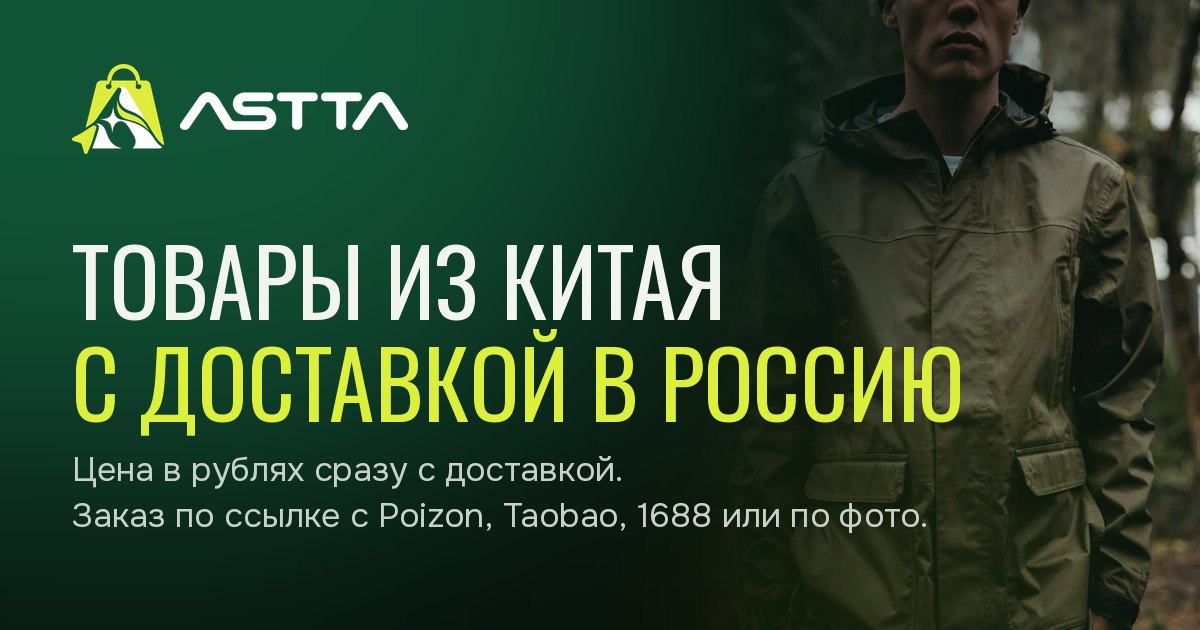
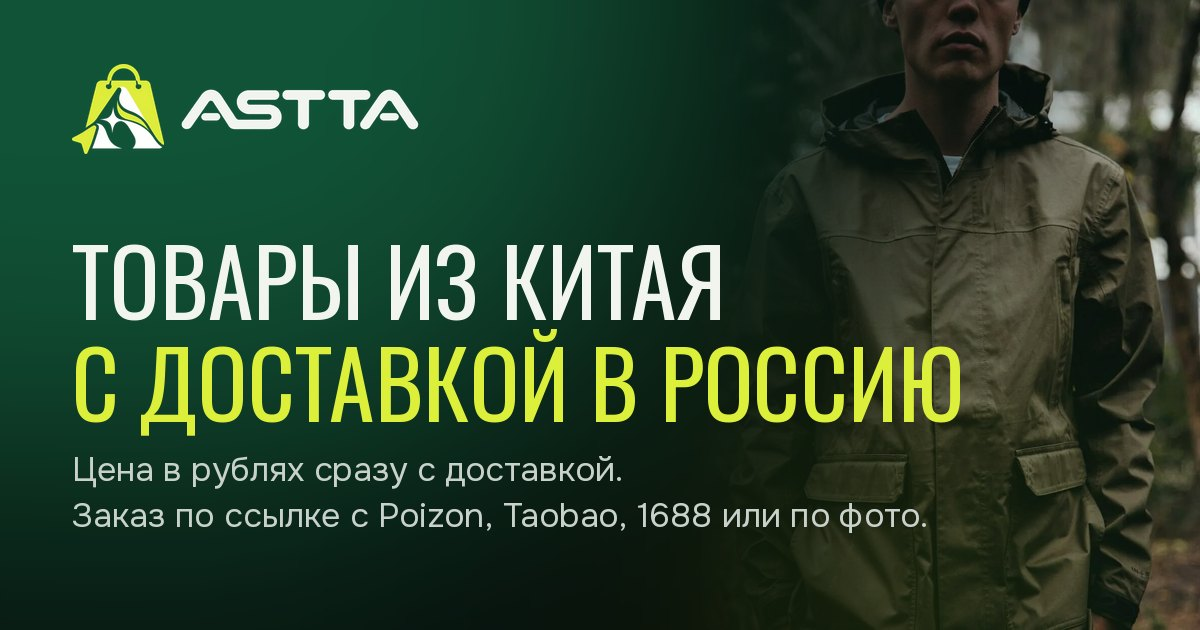
Слово ASTTA с перекладинами у «А» и в тёмной теме
Белое слово для тёмной темы взято из того же макета, что и для светлой (у «А»
перекладины-палочки, раньше было «ΛSTTΛ»): шапка, меню, подвал, заставка,
картинка-превью для соцсетей.

Claude-Session: https://claude.ai/code/session_01APTQeB8JfYjUR9HEGYqeiT

Changed region(s): [[0.1542, 0.1206, 0.37, 0.2111]]

diff --git a/index.html b/index.html
@@ -40,7 +40,7 @@
   <div class="splash__logo">
     <span class="splash__halo"></span>
     <img class="splash__mark" src="assets/img/brand/logo-mark.webp" alt="" width="256" height="250">
-    <img class="splash__word" src="assets/img/brand/logo-word.webp" alt="" width="600" height="99">
+    <img class="splash__word" src="assets/img/brand/logo-word.webp" alt="" width="600" height="107">
     <span class="splash__sub">Marketplace</span>
   </div>
   <div class="splash__bar"><i></i></div>
@@ -91,7 +91,7 @@
   <div class="topbar__in">
     <a class="brand" href="#home" aria-label="ASTTA — на главную">
       <img class="brand__mark brand--dark" src="assets/img/brand/logo-mark-sm.webp" alt="" width="36" height="35"><img class="brand__mark brand--light" src="assets/img/brand/logo-mark-light-sm.webp" alt="" width="36" height="36">
-      <img class="brand__word brand--dark" src="assets/img/brand/logo-word-sm.webp" alt="ASTTA" width="112" height="18"><img class="brand__word brand--light" src="assets/img/brand/logo-word-light-sm.webp" alt="ASTTA" width="112" height="20">
+      <img class="brand__word brand--dark" src="assets/img/brand/logo-word-sm.webp" alt="ASTTA" width="112" height="20"><img class="brand__word brand--light" src="assets/img/brand/logo-word-light-sm.webp" alt="ASTTA" width="112" height="20">
     </a>
 
     <nav class="topnav" aria-label="Разделы">
@@ -366,7 +366,7 @@
   <div class="foot__in">
     <a class="brand" href="#home" aria-label="ASTTA — на главную">
       <img class="brand__mark brand--dark" src="assets/img/brand/logo-mark-sm.webp" alt="" width="36" height="35"><img class="brand__mark brand--light" src="assets/img/brand/logo-mark-light-sm.webp" alt="" width="36" height="36">
-      <img class="brand__word brand--dark" src="assets/img/brand/logo-word-sm.webp" alt="ASTTA" width="112" height="18"><img class="brand__word brand--light" src="assets/img/brand/logo-word-light-sm.webp" alt="ASTTA" width="112" height="20">
+      <img class="brand__word brand--dark" src="assets/img/brand/logo-word-sm.webp" alt="ASTTA" width="112" height="20"><img class="brand__word brand--light" src="assets/img/brand/logo-word-light-sm.webp" alt="ASTTA" width="112" height="20">
     </a>
     <p>Демо-версия. Товары, цены, курс и отзывы здесь примеры.</p>
     <nav class="foot__legal" aria-label="Документы">
@@ -399,7 +399,7 @@
     <div class="drawer__head">
       <a class="brand" href="#home" data-close-menu aria-label="ASTTA — на главную">
         <img class="brand__mark brand--dark" src="assets/img/brand/logo-mark-sm.webp" alt="" width="36" height="35"><img class="brand__mark brand--light" src="assets/img/brand/logo-mark-light-sm.webp" alt="" width="36" height="36">
-        <img class="brand__word brand--dark" src="assets/img/brand/logo-word-sm.webp" alt="ASTTA" width="112" height="18"><img class="brand__word brand--light" src="assets/img/brand/logo-word-light-sm.webp" alt="ASTTA" width="112" height="20">
+        <img class="brand__word brand--dark" src="assets/img/brand/logo-word-sm.webp" alt="ASTTA" width="112" height="20"><img class="brand__word brand--light" src="assets/img/brand/logo-word-light-sm.webp" alt="ASTTA" width="112" height="20">
       </a>
       <button class="iconbtn" type="button" data-close-menu aria-label="Закрыть меню"><svg class="ic"><use href="#i-close"/></svg></button>
     </div>

diff --git a/consent.html b/consent.html
@@ -15,7 +15,7 @@
   <div class="doc__top">
     <a class="brand" href="./" aria-label="ASTTA — на главную">
       <img class="brand__mark brand--dark" src="assets/img/brand/logo-mark-sm.webp" alt="" width="36" height="35"><img class="brand__mark brand--light" src="assets/img/brand/logo-mark-light-sm.webp" alt="" width="36" height="36">
-      <img class="brand__word brand--dark" src="assets/img/brand/logo-word-sm.webp" alt="ASTTA" width="112" height="18"><img class="brand__word brand--light" src="assets/img/brand/logo-word-light-sm.webp" alt="ASTTA" width="112" height="20">
+      <img class="brand__word brand--dark" src="assets/img/brand/logo-word-sm.webp" alt="ASTTA" width="112" height="20"><img class="brand__word brand--light" src="assets/img/brand/logo-word-light-sm.webp" alt="ASTTA" width="112" height="20">
     </a>
     <a class="doc__back" href="./">На главную</a>
   </div>

diff --git a/privacy.html b/privacy.html
@@ -15,7 +15,7 @@
   <div class="doc__top">
     <a class="brand" href="./" aria-label="ASTTA — на главную">
       <img class="brand__mark brand--dark" src="assets/img/brand/logo-mark-sm.webp" alt="" width="36" height="35"><img class="brand__mark brand--light" src="assets/img/brand/logo-mark-light-sm.webp" alt="" width="36" height="36">
-      <img class="brand__word brand--dark" src="assets/img/brand/logo-word-sm.webp" alt="ASTTA" width="112" height="18"><img class="brand__word brand--light" src="assets/img/brand/logo-word-light-sm.webp" alt="ASTTA" width="112" height="20">
+      <img class="brand__word brand--dark" src="assets/img/brand/logo-word-sm.webp" alt="ASTTA" width="112" height="20"><img class="brand__word brand--light" src="assets/img/brand/logo-word-light-sm.webp" alt="ASTTA" width="112" height="20">
     </a>
     <a class="doc__back" href="./">На главную</a>
   </div>
